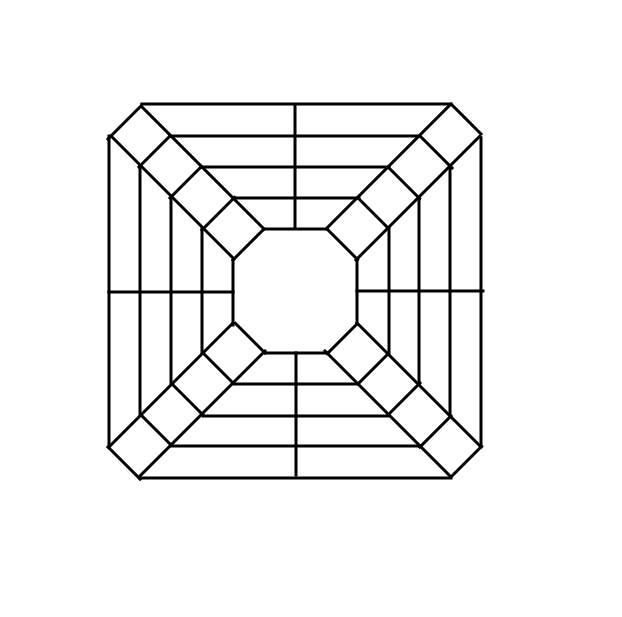
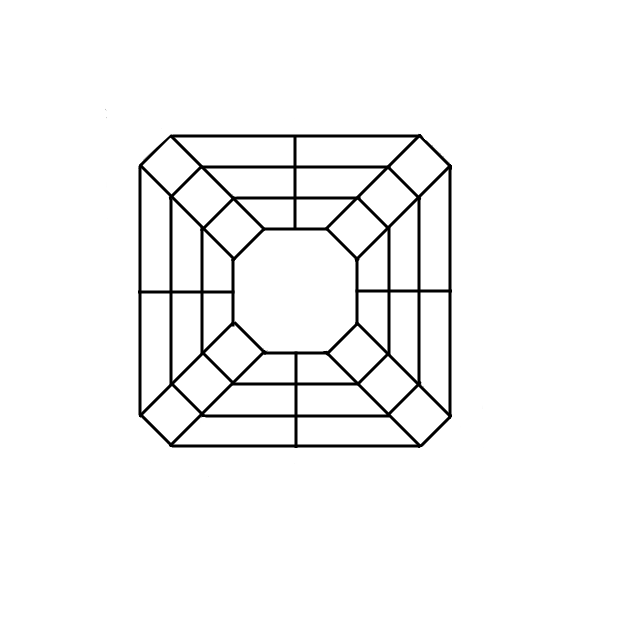
fixed board reset, and layout of board

diff --git a/implementation/gui/game.c b/implementation/gui/game.c
@@ -35,19 +35,19 @@ char board_location[17][17] = {
  {'N','N','N','N','N','N','N','N','N','N','N','N','N','N','N','N','N'},
  {'N','N','N','N','N','N','N','N','N','N','N','N','N','N','N','N','N'},
  {'N','N','N','N','N','N','N','N','N','N','N','N','N','N','N','N','N'},
- {'N','N','N','N','E','N','N','N','N','E','N','N','N','N','E','N','N'},
- {'N','N','N','E','N','E','N','N','N','E','N','N','N','E','N','E','N'},
+ {'N','N','N','N','N','N','N','N','N','N','N','N','N','N','N','N','N'},
+ {'N','N','N','N','N','E','N','N','N','E','N','N','N','E','N','N','N'},
  {'N','N','N','N','E','N','E','N','N','E','N','N','E','N','E','N','N'},
  {'N','N','N','N','N','E','N','E','N','E','N','E','N','E','N','N','N'},
  {'N','N','N','N','N','N','E','N','E','E','E','N','E','N','N','N','N'},
  {'N','N','N','N','N','N','N','E','N','N','N','E','N','N','N','N','N'},
- {'N','N','N','E','E','E','E','E','N','N','N','E','E','E','E','E','N'},
+ {'N','N','N','N','E','E','E','E','N','N','N','E','E','E','E','N','N'},
  {'N','N','N','N','N','N','N','E','N','N','N','E','N','N','N','N','N'},
  {'N','N','N','N','N','N','E','N','E','E','E','N','E','N','N','N','N'},
  {'N','N','N','N','N','E','N','E','N','E','N','E','N','E','N','N','N'},
  {'N','N','N','N','E','N','E','N','N','E','N','N','E','N','E','N','N'},
- {'N','N','N','E','N','E','N','N','N','E','N','N','N','E','N','E','N'},
- {'N','N','N','N','E','N','N','N','N','E','N','N','N','N','E','N','N'},
+ {'N','N','N','N','N','E','N','N','N','E','N','N','N','E','N','N','N'},
+ {'N','N','N','N','N','N','N','N','N','N','N','N','N','N','N','N','N'},
  {'N','N','N','N','N','N','N','N','N','N','N','N','N','N','N','N','N'}
     };
 char player_turn = 'X';

diff --git a/implementation/gui/initboard.c b/implementation/gui/initboard.c
@@ -29,8 +29,12 @@ void clear_board (char cBoardLoc[][17], char *cTurn, bool *bWon)
 	
 	for (y = 0; y < 17; y++)
 	{
-		for (x = 0; x < 17; x++)
-			cBoardLoc [x][y] = 'E';
+		for (x = 0; x < 17; x++) {
+
+            if (cBoardLoc [x][y] != 'N') {
+			    cBoardLoc [x][y] = 'E';
+            }
+        }
 	}
 	
 	*cTurn = 'X';
